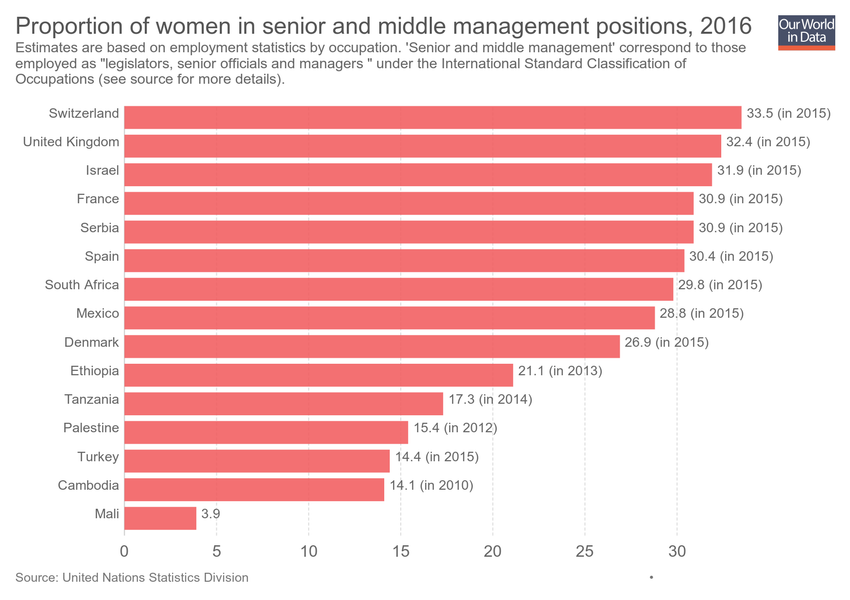
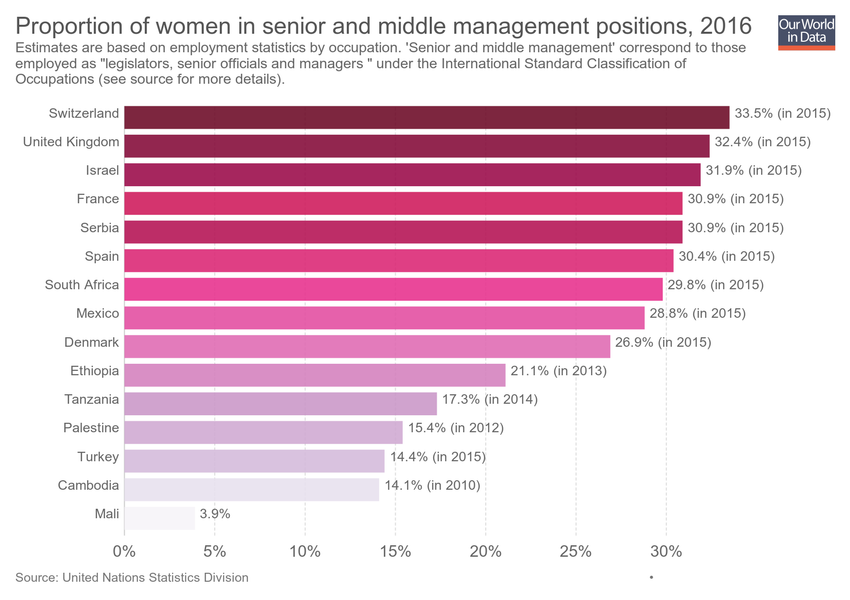
Updating chart proportion-of-women-in-senior-and-middle-management-positions

diff --git a/grapher/proportion-of-women-in-senior-and-middle-management-positions.html b/grapher/proportion-of-women-in-senior-and-middle-management-positions.html
@@ -1,4 +1,4 @@
-<!doctype html><html><head><meta name="viewport" content="width=device-width, initial-scale=1" /><title>Proportion of women in senior and middle management positions - Our World in Data</title><meta name="description" content="Estimates are based on employment statistics by occupation. 'Senior and middle management' correspond to those employed as &quot;legislators, senior officials and managers &quot; under the International Standard Classification of Occupations (see source for more details)." /><link rel="canonical" href="https://ourworldindata.org/grapher/proportion-of-women-in-senior-and-middle-management-positions" /><meta property="fb:app_id" content="1149943818390250" /><meta property="og:url" content="https://ourworldindata.org/grapher/proportion-of-women-in-senior-and-middle-management-positions" /><meta property="og:title" content="Proportion of women in senior and middle management positions" /><meta property="og:description" content="Estimates are based on employment statistics by occupation. 'Senior and middle management' correspond to those employed as &quot;legislators, senior officials and managers &quot; under the International Standard Classification of Occupations (see source for more details)." /><meta property="og:image" content="https://ourworldindata.org/grapher/exports/proportion-of-women-in-senior-and-middle-management-positions.png?v=1" /><meta property="og:image:width" content="850" /><meta property="og:image:height" content="600" /><meta property="og:site_name" content="Our World in Data" /><meta name="twitter:card" content="summary_large_image" /><meta name="twitter:site" content="@OurWorldInData" /><meta name="twitter:creator" content="@OurWorldInData" /><meta name="twitter:title" content="Proportion of women in senior and middle management positions" /><meta name="twitter:description" content="Estimates are based on employment statistics by occupation. 'Senior and middle management' correspond to those employed as &quot;legislators, senior officials and managers &quot; under the International Standard Classification of Occupations (see source for more details)." /><meta name="twitter:image" content="https://ourworldindata.org/grapher/exports/proportion-of-women-in-senior-and-middle-management-positions.png?v=1" /><style>
+<!doctype html><html><head><meta name="viewport" content="width=device-width, initial-scale=1" /><title>Proportion of women in senior and middle management positions - Our World in Data</title><meta name="description" content="Estimates are based on employment statistics by occupation. 'Senior and middle management' correspond to those employed as &quot;legislators, senior officials and managers &quot; under the International Standard Classification of Occupations (see source for more details)." /><link rel="canonical" href="https://ourworldindata.org/grapher/proportion-of-women-in-senior-and-middle-management-positions" /><meta property="fb:app_id" content="1149943818390250" /><meta property="og:url" content="https://ourworldindata.org/grapher/proportion-of-women-in-senior-and-middle-management-positions" /><meta property="og:title" content="Proportion of women in senior and middle management positions" /><meta property="og:description" content="Estimates are based on employment statistics by occupation. 'Senior and middle management' correspond to those employed as &quot;legislators, senior officials and managers &quot; under the International Standard Classification of Occupations (see source for more details)." /><meta property="og:image" content="https://ourworldindata.org/grapher/exports/proportion-of-women-in-senior-and-middle-management-positions.png?v=2" /><meta property="og:image:width" content="850" /><meta property="og:image:height" content="600" /><meta property="og:site_name" content="Our World in Data" /><meta name="twitter:card" content="summary_large_image" /><meta name="twitter:site" content="@OurWorldInData" /><meta name="twitter:creator" content="@OurWorldInData" /><meta name="twitter:title" content="Proportion of women in senior and middle management positions" /><meta name="twitter:description" content="Estimates are based on employment statistics by occupation. 'Senior and middle management' correspond to those employed as &quot;legislators, senior officials and managers &quot; under the International Standard Classification of Occupations (see source for more details)." /><meta name="twitter:image" content="https://ourworldindata.org/grapher/exports/proportion-of-women-in-senior-and-middle-management-positions.png?v=2" /><style>
         html, body {
             height: 100%;
             margin: 0;
@@ -20,8 +20,8 @@
         }
     </style><noscript><style>
                     figure { display: none !important; }
-                </style></noscript><link rel="stylesheet" href="https://ourworldindata.org/grapher/assets/commons.bundle.62f8703dfc964fd3975c.css" /><link rel="preload" href="/grapher/data/variables/67044.json?v=1" as="fetch" crossorigin /></head><body class="singleChart"><figure data-grapher-src="/grapher/proportion-of-women-in-senior-and-middle-management-positions"></figure><noscript id="fallback"><img src="/grapher/exports/proportion-of-women-in-senior-and-middle-management-positions.svg" /><p>Interactive visualization requires JavaScript</p></noscript><script src="https://cdn.polyfill.io/v2/polyfill.min.js?features=es6,fetch"></script><script src="https://ourworldindata.org/grapher/assets/commons.bundle.62f8703dfc964fd3975c.js"></script><script src="https://ourworldindata.org/grapher/assets/charts.bundle.dcf65b68eddaba4c6a58.js"></script><script>
-        var jsonConfig = {"map":{"projection":"World","targetYear":2016,"variableId":67044,"timeTolerance":10,"colorSchemeLabels":[null,null,null,null,null],"colorSchemeValues":[],"defaultProjection":"World","colorSchemeMinValue":0,"customNumericColors":[],"customCategoryColors":{},"customCategoryLabels":{},"customHiddenCategories":{}},"tab":"chart","slug":"proportion-of-women-in-senior-and-middle-management-positions","type":"DiscreteBar","title":"Proportion of women in senior and middle management positions","xAxis":{"scaleType":"linear"},"yAxis":{"min":0,"scaleType":"linear"},"version":1,"subtitle":"Estimates are based on employment statistics by occupation. 'Senior and middle management' correspond to those employed as \"legislators, senior officials and managers \" under the International Standard Classification of Occupations (see source for more details).","hasMapTab":true,"stackMode":"absolute","dimensions":[{"display":{"tolerance":10},"property":"y","variableId":67044}],"isAutoSlug":true,"sourceDesc":"United Nations Statistics Division","hasChartTab":true,"isPublished":true,"selectedData":[{"index":0,"entityId":3},{"index":0,"entityId":81},{"index":0,"entityId":42},{"index":0,"entityId":161},{"index":0,"entityId":133},{"index":0,"entityId":113},{"index":0,"entityId":1},{"index":0,"entityId":7},{"index":0,"entityId":9},{"index":0,"entityId":158},{"index":0,"entityId":140},{"index":0,"entityId":64},{"index":0,"entityId":88},{"index":0,"entityId":70},{"index":0,"entityId":115}],"addCountryMode":"add-country","id":2431};
+                </style></noscript><link rel="stylesheet" href="https://ourworldindata.org/grapher/assets/commons.bundle.62f8703dfc964fd3975c.css" /><link rel="preload" href="/grapher/data/variables/67044.json?v=2" as="fetch" crossorigin /></head><body class="singleChart"><figure data-grapher-src="/grapher/proportion-of-women-in-senior-and-middle-management-positions"></figure><noscript id="fallback"><img src="/grapher/exports/proportion-of-women-in-senior-and-middle-management-positions.svg" /><p>Interactive visualization requires JavaScript</p></noscript><script src="https://cdn.polyfill.io/v2/polyfill.min.js?features=es6,fetch"></script><script src="https://ourworldindata.org/grapher/assets/commons.bundle.62f8703dfc964fd3975c.js"></script><script src="https://ourworldindata.org/grapher/assets/charts.bundle.dcf65b68eddaba4c6a58.js"></script><script>
+        var jsonConfig = {"id":2431,"map":{"projection":"World","targetYear":2016,"variableId":67044,"timeTolerance":10,"colorSchemeLabels":[null,null,null,null,null],"colorSchemeValues":[],"colorSchemeMinValue":0,"customNumericColors":[],"customCategoryColors":{},"customCategoryLabels":{},"customHiddenCategories":{}},"tab":"chart","slug":"proportion-of-women-in-senior-and-middle-management-positions","type":"DiscreteBar","title":"Proportion of women in senior and middle management positions","xAxis":{"scaleType":"linear"},"yAxis":{"min":0,"scaleType":"linear"},"version":2,"subtitle":"Estimates are based on employment statistics by occupation. 'Senior and middle management' correspond to those employed as \"legislators, senior officials and managers \" under the International Standard Classification of Occupations (see source for more details).","hasMapTab":true,"stackMode":"absolute","dimensions":[{"display":{"shortUnit":"%","tolerance":10},"property":"y","variableId":67044}],"sourceDesc":"United Nations Statistics Division","hasChartTab":true,"isPublished":true,"selectedData":[{"index":0,"entityId":3},{"index":0,"entityId":81},{"index":0,"entityId":42},{"index":0,"entityId":161},{"index":0,"entityId":133},{"index":0,"entityId":113},{"index":0,"entityId":1},{"index":0,"entityId":7},{"index":0,"entityId":9},{"index":0,"entityId":158},{"index":0,"entityId":140},{"index":0,"entityId":64},{"index":0,"entityId":88},{"index":0,"entityId":70},{"index":0,"entityId":115}],"addCountryMode":"add-country","baseColorScheme":"PuRd"};
         var figure = document.getElementsByTagName("figure")[0];
         try {
             window.App = {};
